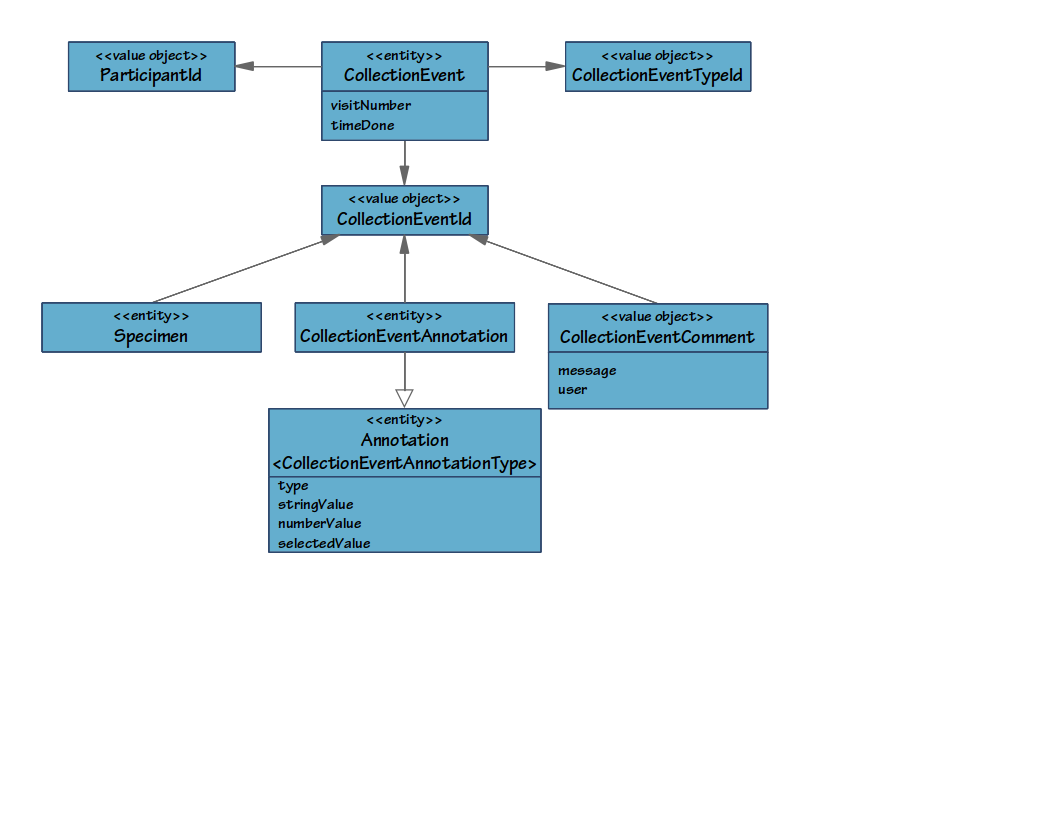
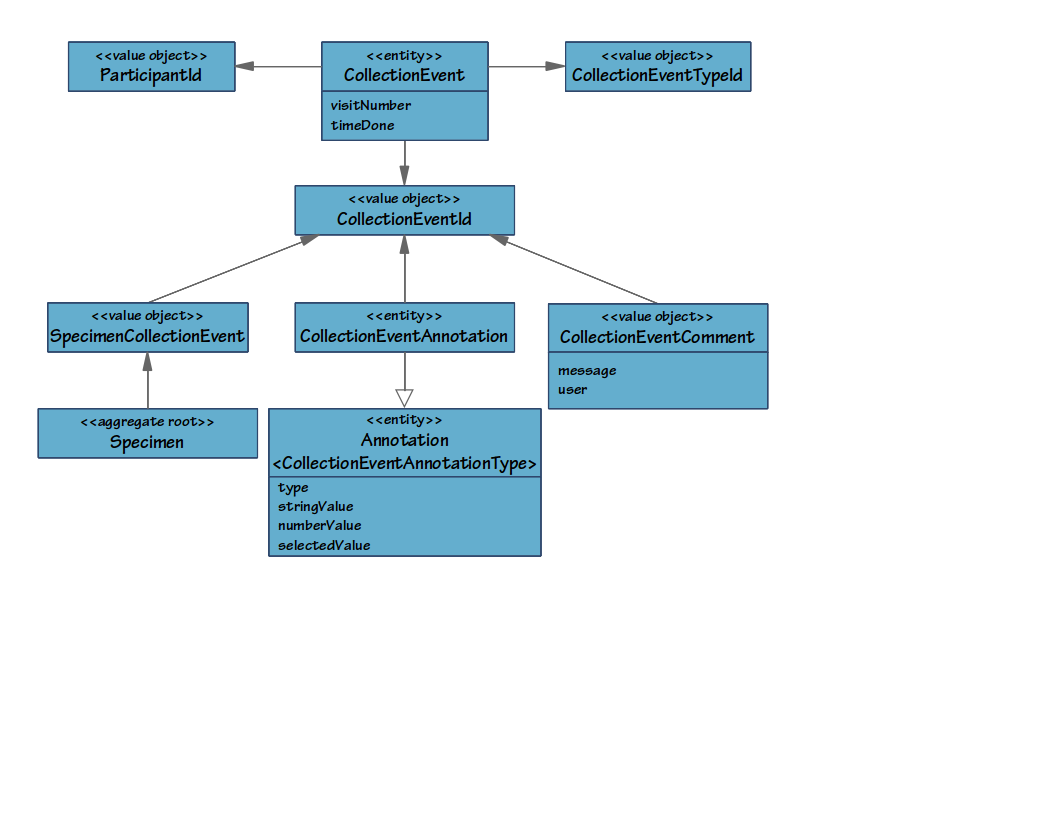
added specimen processing chapter

diff --git a/domain-model.tex b/domain-model.tex
@@ -16,6 +16,13 @@ chapters.
     specimens collected from participants belonging to a study. The specimens
     collected must be those configured for the study.
 
+  \item[Specimen Processing and Storage] \hfill \\ Processing centers process
+    specimens collected from participants. Processing of specimens includes
+    aliquoting, centrifuging, and combining of specimens with preservation
+    fluids.  Once specimens have been processed, centers configured for storage
+    can store them in their storage containers. This module is used to record
+    the procesing of specimens and where specimens are stored.
+
   \item[Center Configuration] \hfill \\ Centers participating in collecting,
     processing, or storing specimens and also centers that request processed
     specimens must be registered in the application. Centers have the
@@ -27,13 +34,6 @@ chapters.
     storage center for processing and storage. Storage centers ship processed
     specimens to request centers. This module is used to record shipments of
     specimens between centers.
-
-  \item[Specimen Processing and Storage] \hfill \\ Processing centers process
-    specimens collected from participants. Processing of specimens includes
-    aliquoting, centrifuging, and combining of specimens with preservation
-    fluids.  Once specimens have been processed, centers configured for storage
-    can store them in their storage containers. This module is used to record
-    the procesing of specimens and where specimens are stored.
 
   \item[Center Storage Configuration] \hfill \\ Storage centers have different
     types of storage containers. This module is used to define the layout of

diff --git a/specimen-collection.tex b/specimen-collection.tex
@@ -54,9 +54,9 @@ meta data. A participant can have one or more comments.
 
 The \entitytarget{CollectionEvent} is used to record a visit to a
 \entitylink{Center} (e.g. a clinic) by one of the study's participants. A
-collection event must have a type as defined for the study. See Section
-\ref{sec:collection-event-type} for more details on the
-\entitylink{CollectionEventType}.
+collection event must have a \entitylink{CollectionEventType} as defined by
+the study. See Section \ref{sec:collection-event-type} for more details on
+the collection event type.
 
 A collection event also has a \compfont{visitNumber} that is an integer and a
 \compfont{timeDone} which is a time stamp for when the participant made the
@@ -74,6 +74,12 @@ visit to the center. The format for the time stamp is: YYYY-MM-DD HH:MM.
 One or more specimens may have been collected from the participant. Each
 specimen is recorded with the collection event. More information for this
 entity is given in Section \ref{sec:specimen}.
+
+\valobjtarget{SpecimenCollectionEvent} is used to associate a specimen to a
+collection event. It is possible, although not recommended, that a specimen
+have multiple collection events for the case when specimens are trasnferred
+from one study to another. By having multiple collection events the information
+from the original collection event is not lost for the specimen.
 
 \subsection*{CollectionEventAnnotation}
 This entity holds the annotation value for the

diff --git a/specimen-processing.tex b/specimen-processing.tex
@@ -1,0 +1,13 @@
+\chapter{Specimen Processing and Storage}
+
+\begin{figure}[H]
+  \centering
+  \includegraphics[trim={10mm 50mm 72mm 10mm}, clip,
+    width=0.75\textwidth]{images/specimen}
+  \caption{Specimen Aggregate Root}
+  \label{fig:specimen}
+\end{figure}
+
+% Local Variables:
+% compile-command: "/usr/bin/rubber --pdf main"
+% End:

diff --git a/main.tex b/main.tex
@@ -224,6 +224,7 @@
 \include{domain-model}
 \include{study-management}
 \include{specimen-collection}
+\include{specimen-processing}
 
 %----------------------------------------------------------------------------------------
 % Bibliography
